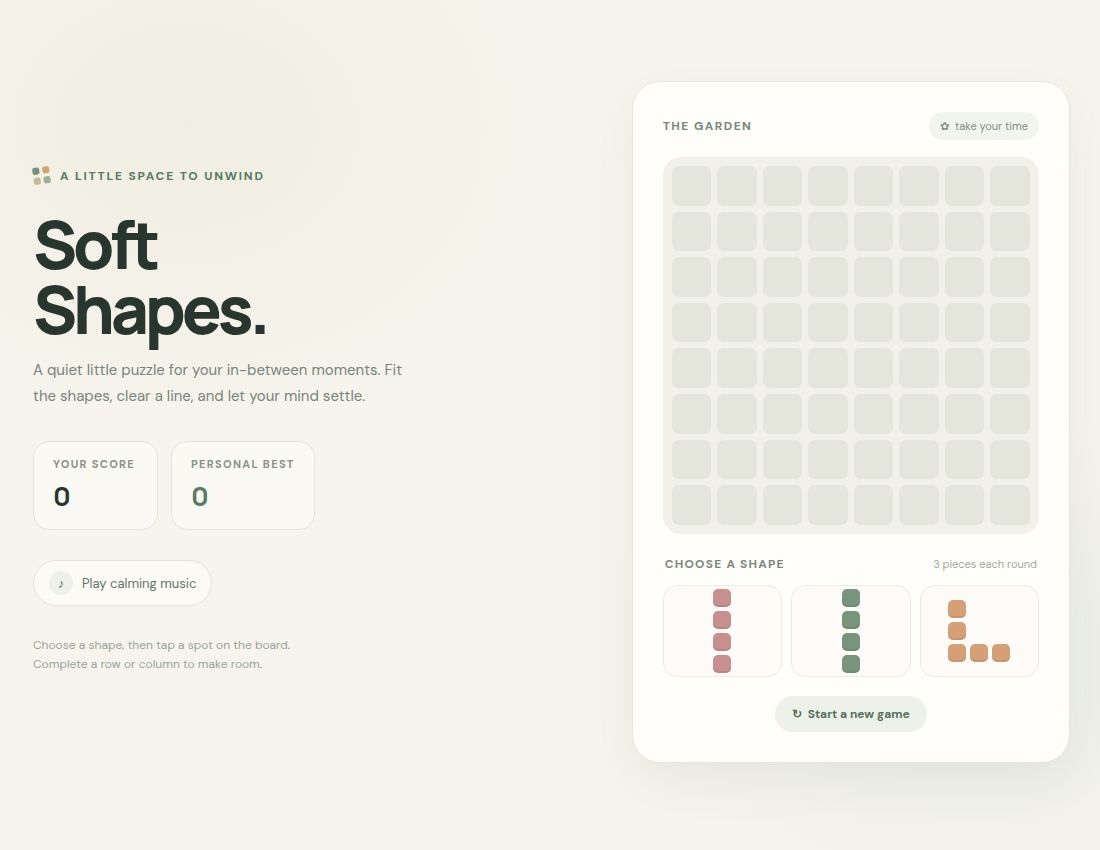
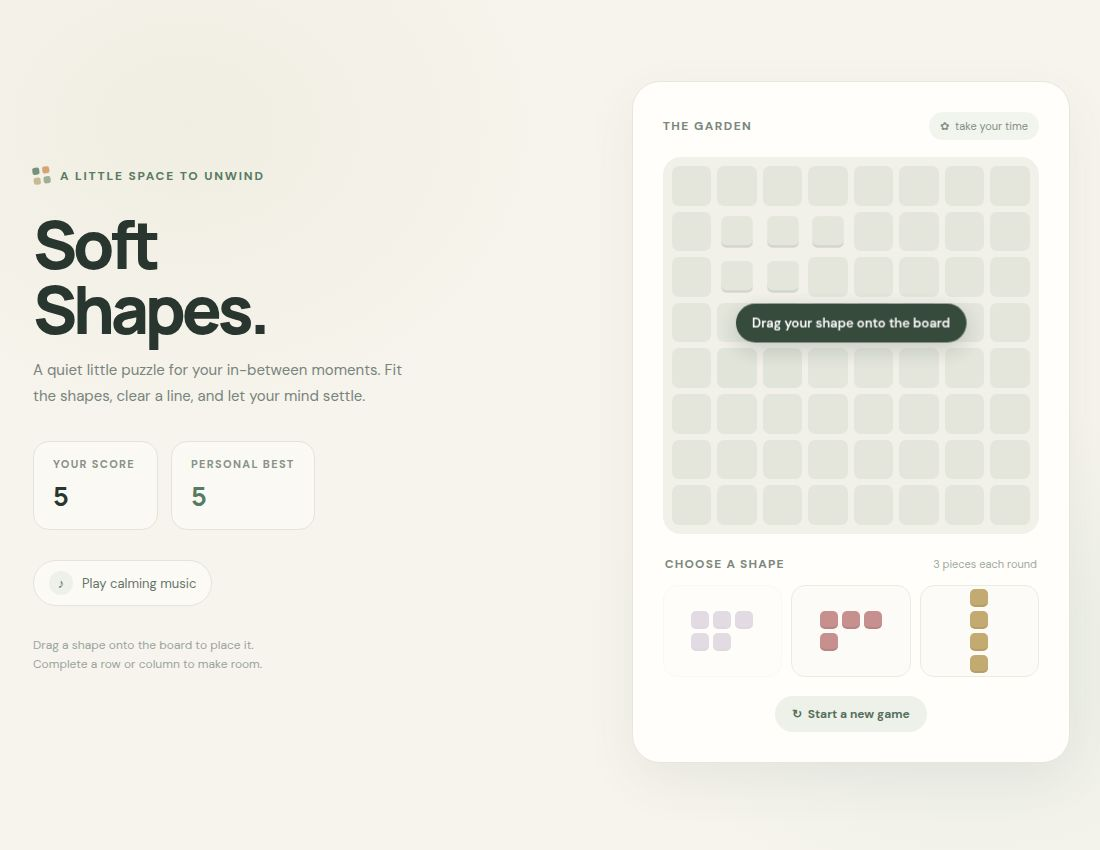
Publish static build for issue #5
Run: 43649679164
Attempt: 1
Generation: 5
Source: 36dc38c8cd96f9aab50d4e6b6b8db0844d0089b7

diff --git a/index.html b/index.html
@@ -14,7 +14,7 @@
     h1{font:800 clamp(40px,6vw,68px)/.98 'Manrope',sans-serif;letter-spacing:-.065em;margin:28px 0 15px}.subtitle{color:#78847c;font-size:15px;line-height:1.75;max-width:380px;margin:0}.stats{display:flex;gap:13px;margin:32px 0 30px}.stat{min-width:125px;padding:15px 19px;border:1px solid var(--line);border-radius:16px;background:#fffefa80}.stat span{display:block;color:var(--muted);font-size:11px;font-weight:700;letter-spacing:.12em;text-transform:uppercase;margin-bottom:6px}.stat strong{font:700 27px 'Manrope',sans-serif;letter-spacing:-.04em}.stat.best strong{color:var(--green)}
     .music-toggle{border:1px solid var(--line);background:#fffefa9e;border-radius:100px;padding:10px 15px;display:inline-flex;align-items:center;gap:9px;cursor:pointer;font-size:13px;color:#66746a;transition:.2s}.music-toggle:hover{border-color:#b9c5b7;background:white}.music-toggle .sound-icon{width:24px;height:24px;border-radius:50%;display:grid;place-items:center;background:#edf1e9;color:var(--green);font-size:13px}.music-toggle[aria-pressed="true"] .sound-icon{background:var(--green);color:white}.hint{font-size:12px;color:#9aa39c;margin-top:30px;line-height:1.6}
     .game-card{padding:clamp(18px,3vw,30px);border:1px solid #e8e5dc;border-radius:28px;background:#fffefa;box-shadow:var(--shadow);position:relative}.game-head{display:flex;justify-content:space-between;align-items:center;margin-bottom:17px}.game-label{font-size:12px;font-weight:700;letter-spacing:.12em;text-transform:uppercase;color:#7a877d}.round-badge{font-size:11px;color:#829083;background:#f2f4ee;padding:7px 11px;border-radius:30px}.board-wrap{position:relative}.board{display:grid;grid-template-columns:repeat(8,1fr);gap:6px;aspect-ratio:1;padding:9px;background:#f1f0e9;border-radius:18px;touch-action:none;user-select:none}.cell{border-radius:7px;background:#e4e6dc;transition:background .12s,transform .12s;position:relative}.cell.filled{background:var(--tile,#799681);box-shadow:inset 0 -3px 0 #00000012;animation:pop .18s ease-out}.cell.preview{background:#a6bba4!important;opacity:.72}.cell.invalid{background:#d9a39a!important;opacity:.8}.cell.clearing{animation:clear .27s ease-in forwards}@keyframes pop{from{transform:scale(.75)}to{transform:scale(1)}}@keyframes clear{50%{transform:scale(.82);opacity:.55}100%{transform:scale(.1);opacity:0}}
-    .tray-title{display:flex;justify-content:space-between;align-items:center;margin:22px 2px 13px}.tray-title span:first-child{font-size:12px;font-weight:700;letter-spacing:.1em;text-transform:uppercase;color:#7c887e}.tray-title small{font-size:11px;color:#a0a9a0}.pieces{display:grid;grid-template-columns:repeat(3,1fr);gap:9px}.piece{height:92px;border:1px solid #eeeae2;background:#fcfbf7;border-radius:14px;display:grid;place-items:center;cursor:pointer;transition:transform .18s,border .18s,background .18s;touch-action:none;position:relative}.piece:hover{transform:translateY(-2px);border-color:#d6dfd3}.piece.selected{background:#f3f6f0;border-color:#94ab95;box-shadow:0 0 0 2px #e3ebe1}.piece.used{opacity:.3;pointer-events:none}.piece-shape{display:grid;gap:4px;pointer-events:none}.mini-cell{width:18px;height:18px;border-radius:5px;background:var(--piece-color,#799681);box-shadow:inset 0 -2px #00000012}.mini-cell.empty{visibility:hidden}.toast{position:absolute;left:50%;top:44%;transform:translate(-50%,-50%) scale(.9);padding:11px 16px;border-radius:30px;background:#34483a;color:white;font-size:13px;font-weight:600;white-space:nowrap;opacity:0;pointer-events:none;transition:.2s;z-index:2;box-shadow:0 7px 22px #30433535}.toast.show{opacity:1;transform:translate(-50%,-50%) scale(1)}
+    .tray-title{display:flex;justify-content:space-between;align-items:center;margin:22px 2px 13px}.tray-title span:first-child{font-size:12px;font-weight:700;letter-spacing:.1em;text-transform:uppercase;color:#7c887e}.tray-title small{font-size:11px;color:#a0a9a0}.pieces{display:grid;grid-template-columns:repeat(3,1fr);gap:9px}.piece{height:92px;border:1px solid #eeeae2;background:#fcfbf7;border-radius:14px;display:grid;place-items:center;cursor:pointer;transition:transform .18s,border .18s,background .18s;touch-action:none;position:relative}.piece:hover{transform:translateY(-2px);border-color:#d6dfd3}.piece.selected{background:#f3f6f0;border-color:#94ab95;box-shadow:0 0 0 2px #e3ebe1}.piece.drag-source{opacity:.38;transform:scale(.94)}.piece.used{opacity:.3;pointer-events:none}.piece-shape{display:grid;gap:4px;pointer-events:none}.mini-cell{width:18px;height:18px;border-radius:5px;background:var(--piece-color,#799681);box-shadow:inset 0 -2px #00000012}.mini-cell.empty{visibility:hidden}.toast{position:absolute;left:50%;top:44%;transform:translate(-50%,-50%) scale(.9);padding:11px 16px;border-radius:30px;background:#34483a;color:white;font-size:13px;font-weight:600;white-space:nowrap;opacity:0;pointer-events:none;transition:.2s;z-index:2;box-shadow:0 7px 22px #30433535}.toast.show{opacity:1;transform:translate(-50%,-50%) scale(1)}
     .bottom-row{display:flex;justify-content:center;margin-top:19px}.new-game{border:0;background:#edf1e9;border-radius:30px;padding:10px 17px;color:#56705b;font-size:12px;font-weight:700;cursor:pointer;transition:.2s}.new-game:hover{background:#e3eade;transform:translateY(-1px)}.overlay{position:absolute;inset:0;border-radius:28px;background:#fffefaed;display:none;align-items:center;justify-content:center;flex-direction:column;text-align:center;padding:26px;z-index:3}.overlay.show{display:flex}.overlay h2{font:800 30px 'Manrope',sans-serif;letter-spacing:-.05em;margin:0 0 7px}.overlay p{color:#7d8980;font-size:14px;margin:0 0 22px}.overlay button{border:0;background:var(--green);color:white;border-radius:30px;padding:12px 22px;font-weight:700;cursor:pointer}
     @media(max-width:750px){body{align-items:flex-start;padding:16px 15px 28px}.app{grid-template-columns:1fr;gap:16px;width:min(100%,440px)}.intro{padding:0;text-align:center}.brand{justify-content:center;font-size:10px}h1{font-size:39px;margin:9px 0 6px}.subtitle{font-size:12px;line-height:1.5;max-width:340px;margin:auto}.stats{justify-content:center;margin:12px 0 9px;gap:9px}.stat{min-width:112px;padding:8px 15px}.stat span{font-size:9px;margin-bottom:2px}.stat strong{font-size:21px}.music-toggle{padding:6px 12px;font-size:11px}.music-toggle .sound-icon{width:21px;height:21px}.hint{display:none}.game-card{padding:18px;border-radius:23px}.board{gap:5px;padding:8px;border-radius:15px}.cell{border-radius:6px}.piece{height:75px}.mini-cell{width:16px;height:16px;border-radius:4px}.tray-title{margin:17px 2px 10px}.bottom-row{margin-top:13px}}
     @media(max-width:360px){:root{--cell:28px}.game-card{padding:14px}.board{gap:4px;padding:7px}.pieces{gap:6px}.piece{height:67px}.mini-cell{width:14px;height:14px}.subtitle{font-size:12px}}
@@ -28,7 +28,7 @@
       <p class="subtitle">A quiet little puzzle for your in-between moments. Fit the shapes, clear a line, and let your mind settle.</p>
       <div class="stats"><div class="stat"><span>your score</span><strong id="score">0</strong></div><div class="stat best"><span>personal best</span><strong id="best">0</strong></div></div>
       <button class="music-toggle" id="musicToggle" aria-pressed="false"><span class="sound-icon" id="soundIcon">♪</span><span id="musicLabel">Play calming music</span></button>
-      <p class="hint">Choose a shape, then tap a spot on the board.<br>Complete a row or column to make room.</p>
+      <p class="hint">Drag a shape onto the board to place it.<br>Complete a row or column to make room.</p>
     </section>
     <section class="game-card" aria-label="Block puzzle game">
       <div class="game-head"><span class="game-label">The garden</span><span class="round-badge">✿ &nbsp;take your time</span></div>
@@ -50,7 +50,7 @@
   const cells=[...boardEl.children];
   function updateScore(){scoreEl.textContent=score; if(score>best){best=score;bestEl.textContent=best;localStorage.setItem('softShapesBest',best)}}
   function makeRound(){pieces=[];selected=-1;for(let i=0;i<3;i++){let shape=SHAPES[Math.floor(Math.random()*SHAPES.length)];pieces.push({shape:shape.map(c=>[...c]),color:COLORS[Math.floor(Math.random()*COLORS.length)],used:false})}renderPieces();checkGameOver()}
-  function renderPieces(){piecesEl.innerHTML='';pieces.forEach((p,index)=>{let item=document.createElement('button');item.className='piece'+(p.used?' used':'')+(index===selected?' selected':'');item.setAttribute('aria-label',`Choose shape ${index+1}`);let rows=Math.max(...p.shape.map(c=>c[0]))+1,cols=Math.max(...p.shape.map(c=>c[1]))+1;let shape=document.createElement('span');shape.className='piece-shape';shape.style.gridTemplateColumns=`repeat(${cols},18px)`;shape.style.setProperty('--piece-color',p.color);for(let y=0;y<rows;y++)for(let x=0;x<cols;x++){let cell=document.createElement('i');cell.className='mini-cell'+(p.shape.some(([r,col])=>r===y&&col===x)?'':' empty');shape.appendChild(cell)}item.appendChild(shape);item.addEventListener('click',()=>{if(p.used)return;selected=index;renderPieces();showToast('Tap a place for your shape')});piecesEl.appendChild(item)})}
+  function renderPieces(){piecesEl.innerHTML='';pieces.forEach((p,index)=>{let item=document.createElement('button');item.className='piece'+(p.used?' used':'')+(index===selected?' selected':'');item.setAttribute('aria-label',`Drag shape ${index+1} onto the board`);item.setAttribute('aria-grabbed','false');let rows=Math.max(...p.shape.map(c=>c[0]))+1,cols=Math.max(...p.shape.map(c=>c[1]))+1;let shape=document.createElement('span');shape.className='piece-shape';shape.style.gridTemplateColumns=`repeat(${cols},18px)`;shape.style.setProperty('--piece-color',p.color);for(let y=0;y<rows;y++)for(let x=0;x<cols;x++){let cell=document.createElement('i');cell.className='mini-cell'+(p.shape.some(([r,col])=>r===y&&col===x)?'':' empty');shape.appendChild(cell)}item.appendChild(shape);item.addEventListener('pointerdown',e=>{if(p.used)return;e.preventDefault();selected=index;item.setPointerCapture(e.pointerId);item.setAttribute('aria-grabbed','true');item.classList.add('drag-source');showToast('Drag your shape onto the board')});item.addEventListener('pointermove',e=>{if(selected!==index||!item.hasPointerCapture(e.pointerId))return;let target=document.elementFromPoint(e.clientX,e.clientY);if(target&&boardEl.contains(target)){preview(e)}else cells.forEach(cell=>cell.classList.remove('preview','invalid'))});item.addEventListener('pointerup',e=>{if(selected!==index)return;item.classList.remove('drag-source');item.setAttribute('aria-grabbed','false');if(item.hasPointerCapture(e.pointerId))item.releasePointerCapture(e.pointerId);let target=document.elementFromPoint(e.clientX,e.clientY);if(target&&boardEl.contains(target)){let [r,c]=boardPoint(e);place(index,r,c)}else{selected=-1;renderPieces();showToast('Drag a shape onto the board to place it')}});item.addEventListener('pointercancel',()=>{item.classList.remove('drag-source');item.setAttribute('aria-grabbed','false');selected=-1;cells.forEach(cell=>cell.classList.remove('preview','invalid'));renderPieces()});piecesEl.appendChild(item)})}
   function canPlace(piece,row,col){return piece.shape.every(([dy,dx])=>row+dy<N&&col+dx<N&&row+dy>=0&&col+dx>=0&&!grid[(row+dy)*N+col+dx])}
   function place(pieceIndex,row,col){const p=pieces[pieceIndex];if(!p||p.used)return;if(!canPlace(p,row,col)){showToast('That spot is already taken');return}p.shape.forEach(([dy,dx])=>{grid[(row+dy)*N+col+dx]=p.color});score+=p.shape.length;updateScore();p.used=true;selected=-1;paint();let clearRows=[];for(let r=0;r<N;r++)if(grid.slice(r*N,(r+1)*N).every(Boolean))clearRows.push(...Array.from({length:N},(_,c)=>r*N+c));let clearCols=[];for(let c=0;c<N;c++)if(Array.from({length:N},(_,r)=>grid[r*N+c]).every(Boolean))clearCols.push(...Array.from({length:N},(_,r)=>r*N+c));let clearSet=new Set([...clearRows,...clearCols]);if(clearSet.size){clearSet.forEach(i=>cells[i].classList.add('clearing'));setTimeout(()=>{clearSet.forEach(i=>grid[i]=null);score+=clearSet.size*2+(clearRows.length&&clearCols.length?10:0);updateScore();paint();if(clearRows.length&&clearCols.length)showToast('A perfect little cross ✿');else showToast(clearSet.size===N?'A line cleared ✿':`${clearRows.length+clearCols.length} lines cleared ✿`);continueRound()},280)}else continueRound()}
   function continueRound(){renderPieces();if(pieces.every(p=>p.used)){setTimeout(makeRound,230)}else checkGameOver()}
@@ -60,7 +60,7 @@
   function showToast(message){toastEl.textContent=message;toastEl.classList.add('show');clearTimeout(toastTimer);toastTimer=setTimeout(()=>toastEl.classList.remove('show'),1250)}
   function boardPoint(event){let rect=boardEl.getBoundingClientRect(),x=(event.clientX-rect.left-8)/(rect.width-16),y=(event.clientY-rect.top-8)/(rect.height-16);return [Math.floor(y*N),Math.floor(x*N)]}
   function preview(event){if(selected<0||pieces[selected]?.used)return;let [r,c]=boardPoint(event),p=pieces[selected],ok=canPlace(p,r,c);cells.forEach(el=>el.classList.remove('preview','invalid'));p.shape.forEach(([dy,dx])=>{let i=(r+dy)*N+c+dx;if(r+dy>=0&&r+dy<N&&c+dx>=0&&c+dx<N)cells[i].classList.add(ok?'preview':'invalid')})}
-  boardEl.addEventListener('pointermove',preview);boardEl.addEventListener('pointerleave',()=>cells.forEach(el=>el.classList.remove('preview','invalid')));boardEl.addEventListener('pointerdown',e=>{if(selected<0){showToast('Choose a shape first');return}let [r,c]=boardPoint(e);place(selected,r,c)});
+  boardEl.addEventListener('pointermove',preview);boardEl.addEventListener('pointerleave',()=>cells.forEach(el=>el.classList.remove('preview','invalid')));
   function startGame(){grid=Array(N*N).fill(null);score=0;updateScore();overlay.classList.remove('show');paint();makeRound()}
   document.getElementById('newGame').addEventListener('click',startGame);document.getElementById('again').addEventListener('click',startGame);
   // Gentle, original ambient music: slow sine-wave chords with no external audio assets.
